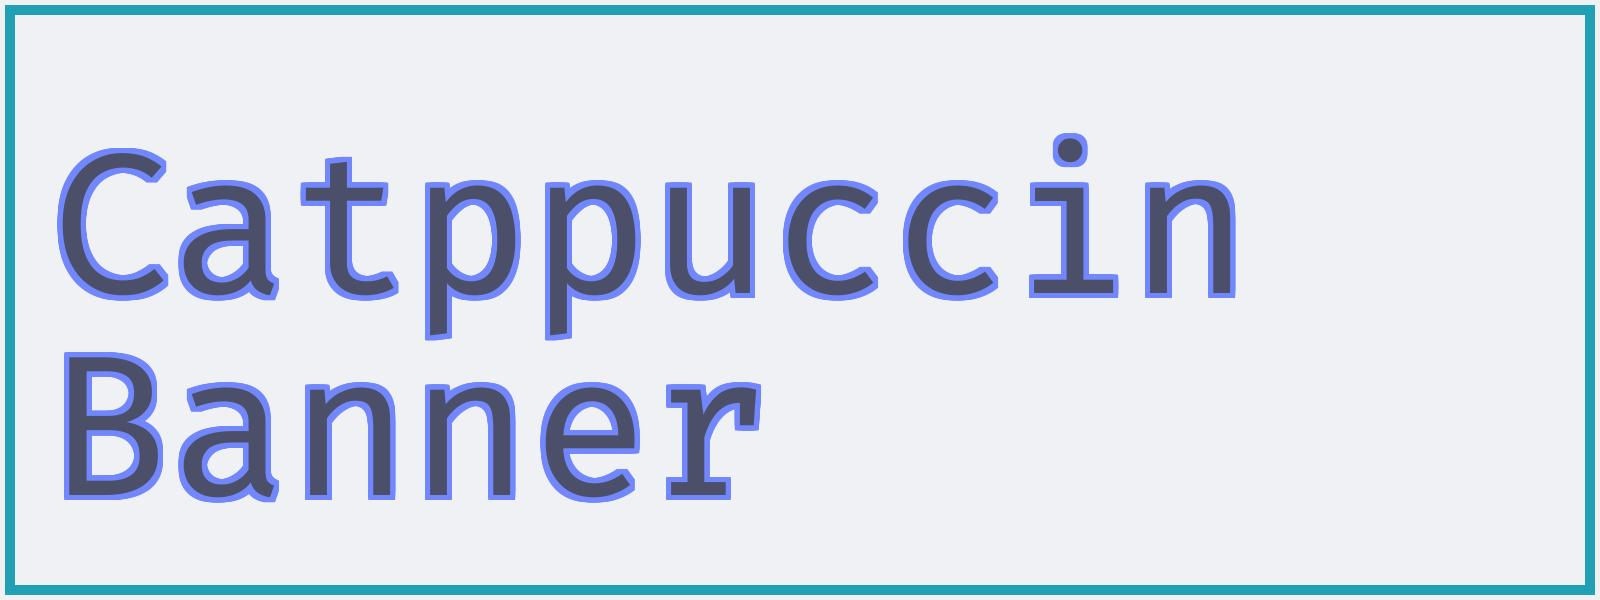
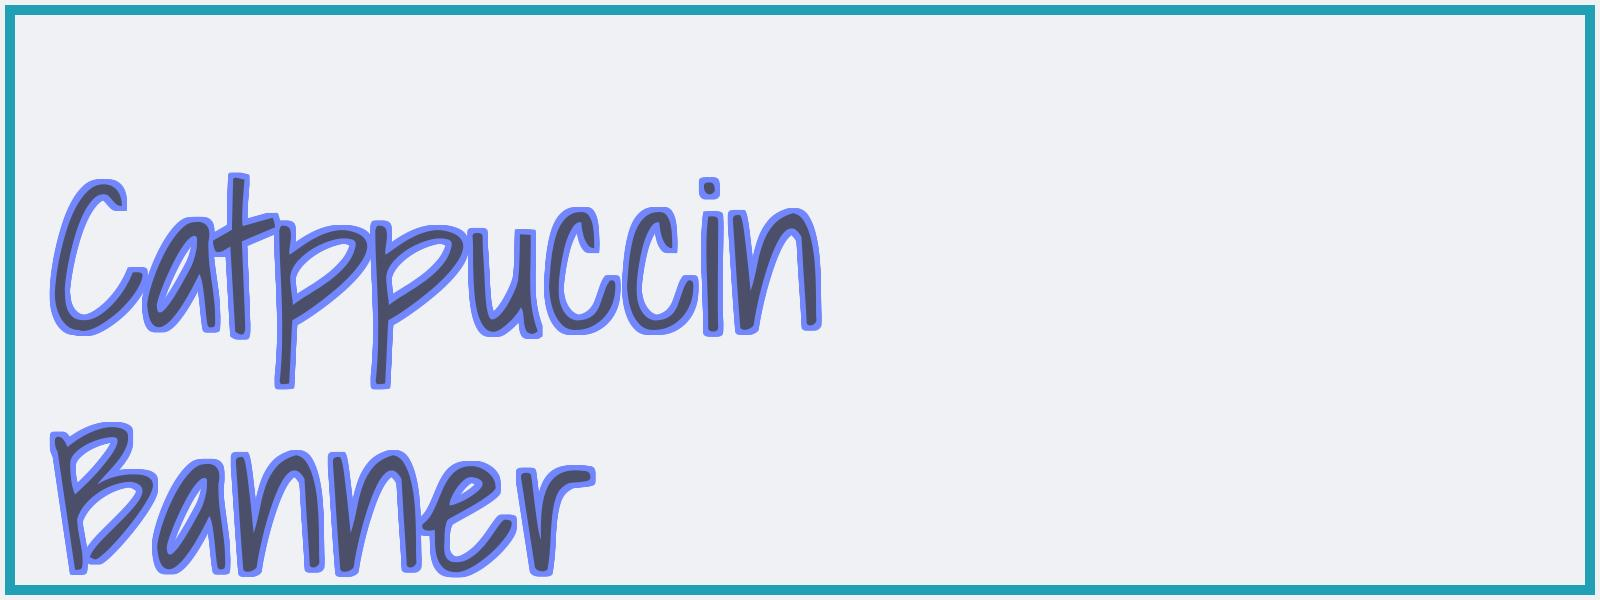
initialized

Changed region(s): [[0.0312, 0.21, 0.7812, 0.96]]

diff --git a/banner.py b/banner.py
@@ -31,7 +31,7 @@ parser.add_argument("--path", type=str, default="./Catppuccin-Banner.jpg")
 parser.add_argument("--format", type=str, default=None) # save format of the image, let 'Image.save' guess by default
 parser.add_argument("--text", type=str, default="Catppuccin")
 parser.add_argument("--flavour", type=str, default="mocha", choices=flavour_choice)
-parser.add_argument("--font", type=str, default="./fonts/Firacode/static/FiraCode-Regular.ttf")
+parser.add_argument("--font", type=str, default="./fonts/Shadows_Into_Light/ShadowsIntoLight-Regular.ttf")
 parser.add_argument("--font-size", type=int, default=0) # negative or zero -> use default settings : 1//3 of image height
 parser.add_argument("--image-size", type=str, default="1600x600")
 parser.add_argument("--text-border", type=str, default="mauve", choices=color_choice)

diff --git a/README.md b/README.md
@@ -47,7 +47,7 @@ The Python code utilizes the argparse library, allowing for various configuratio
 | `--path` | `str` | path of generated image. | `"./Catppuccin-Banner.jpg"` |
 | `--text` | `str` | set content of the image. use newline character `\n` for multi-line text. | `"Catppuccin"` |
 | `--flavour` | `str` | set catppuccin-flavour of the image. this will be background color of the image.  see available options [here](#catppuccin-flavours-and-colors).  | `"mocha"` |
-| `--font` | `str` | path to truetype text font. | `"./fonts/Firacode/static/FiraCode-Regular.ttf"` |
+| `--font` | `str` | path to truetype text font. | `"./fonts/Shadows_Into_Light/ShadowsIntoLight-Regular.ttf"` |
 | `--font-size` | `int` | set size of the font. if the value is equal or smaller than 0, font size will automatically be `1//3` of image height. | `0` |
 | `--image-size` | `str` | set size of the image using format `[width]x[height]`. | `"1600x600"` |
 | `--text-border` | `str` | set color of text border. see available options [here](#catppuccin-flavours-and-colors). | `"mauve"` |
@@ -102,7 +102,7 @@ $ python banner.py \
 2. Light theme banner
 
 ```bash
-$ python banner.py
+$ python banner.py \
     --path="./assets/Catppuccin-Banner-Light.jpg" \
     --text="Catppuccin\nBanner" \
     --text-border="lavender" \
